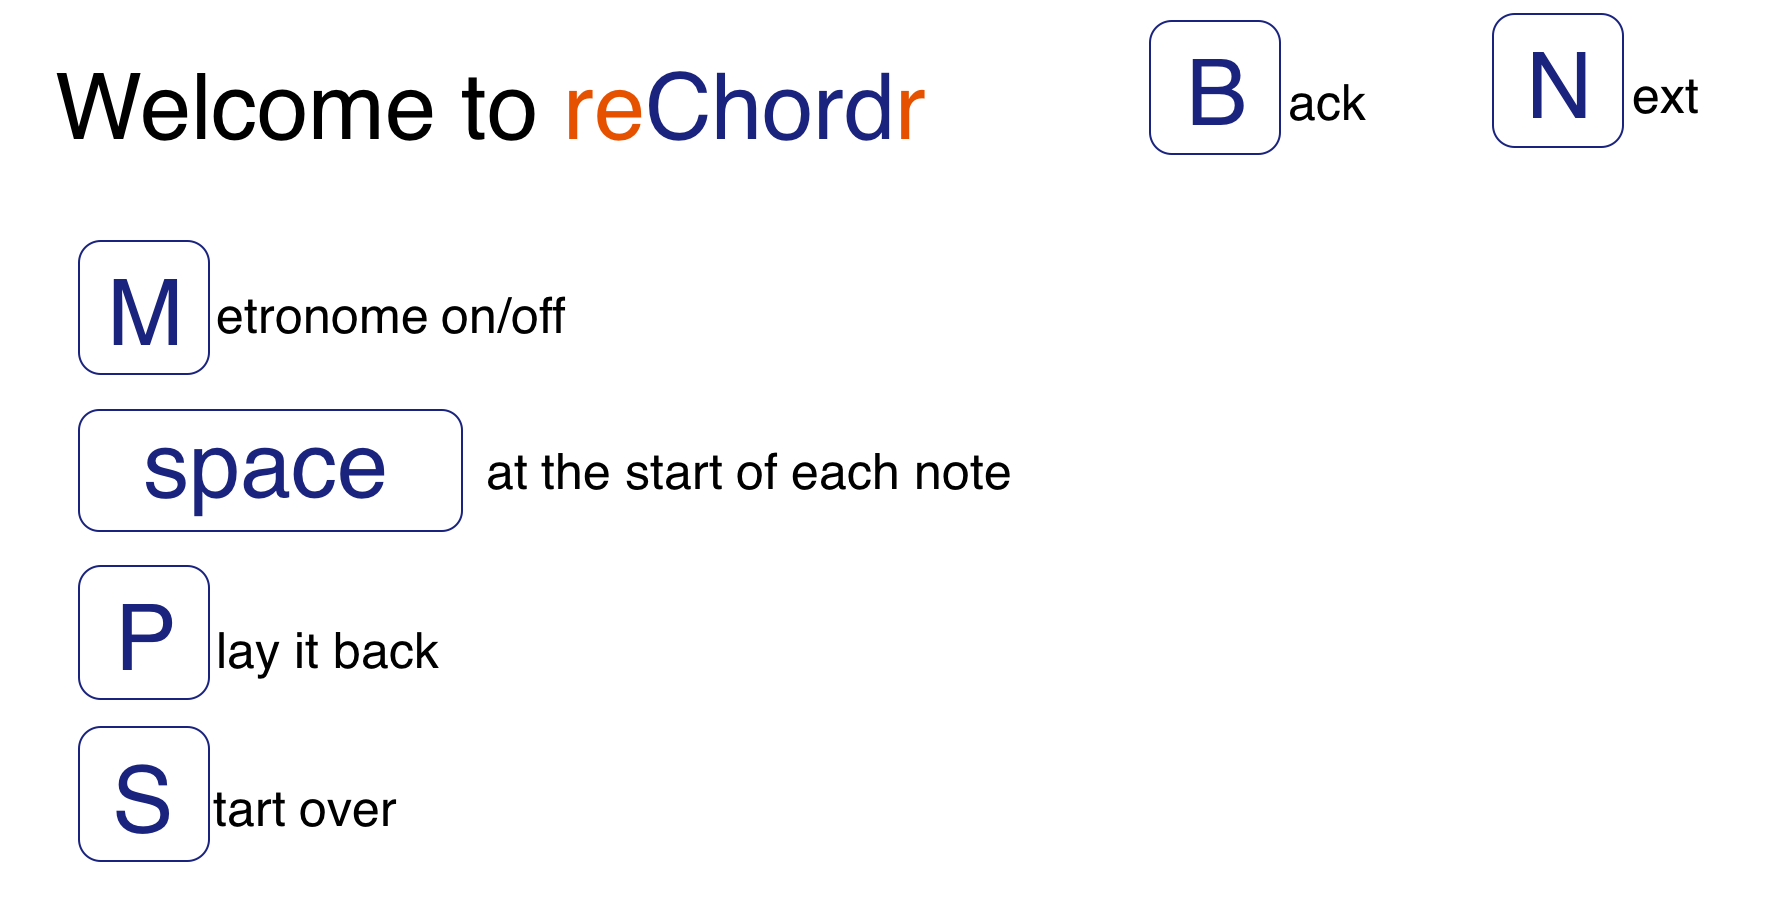
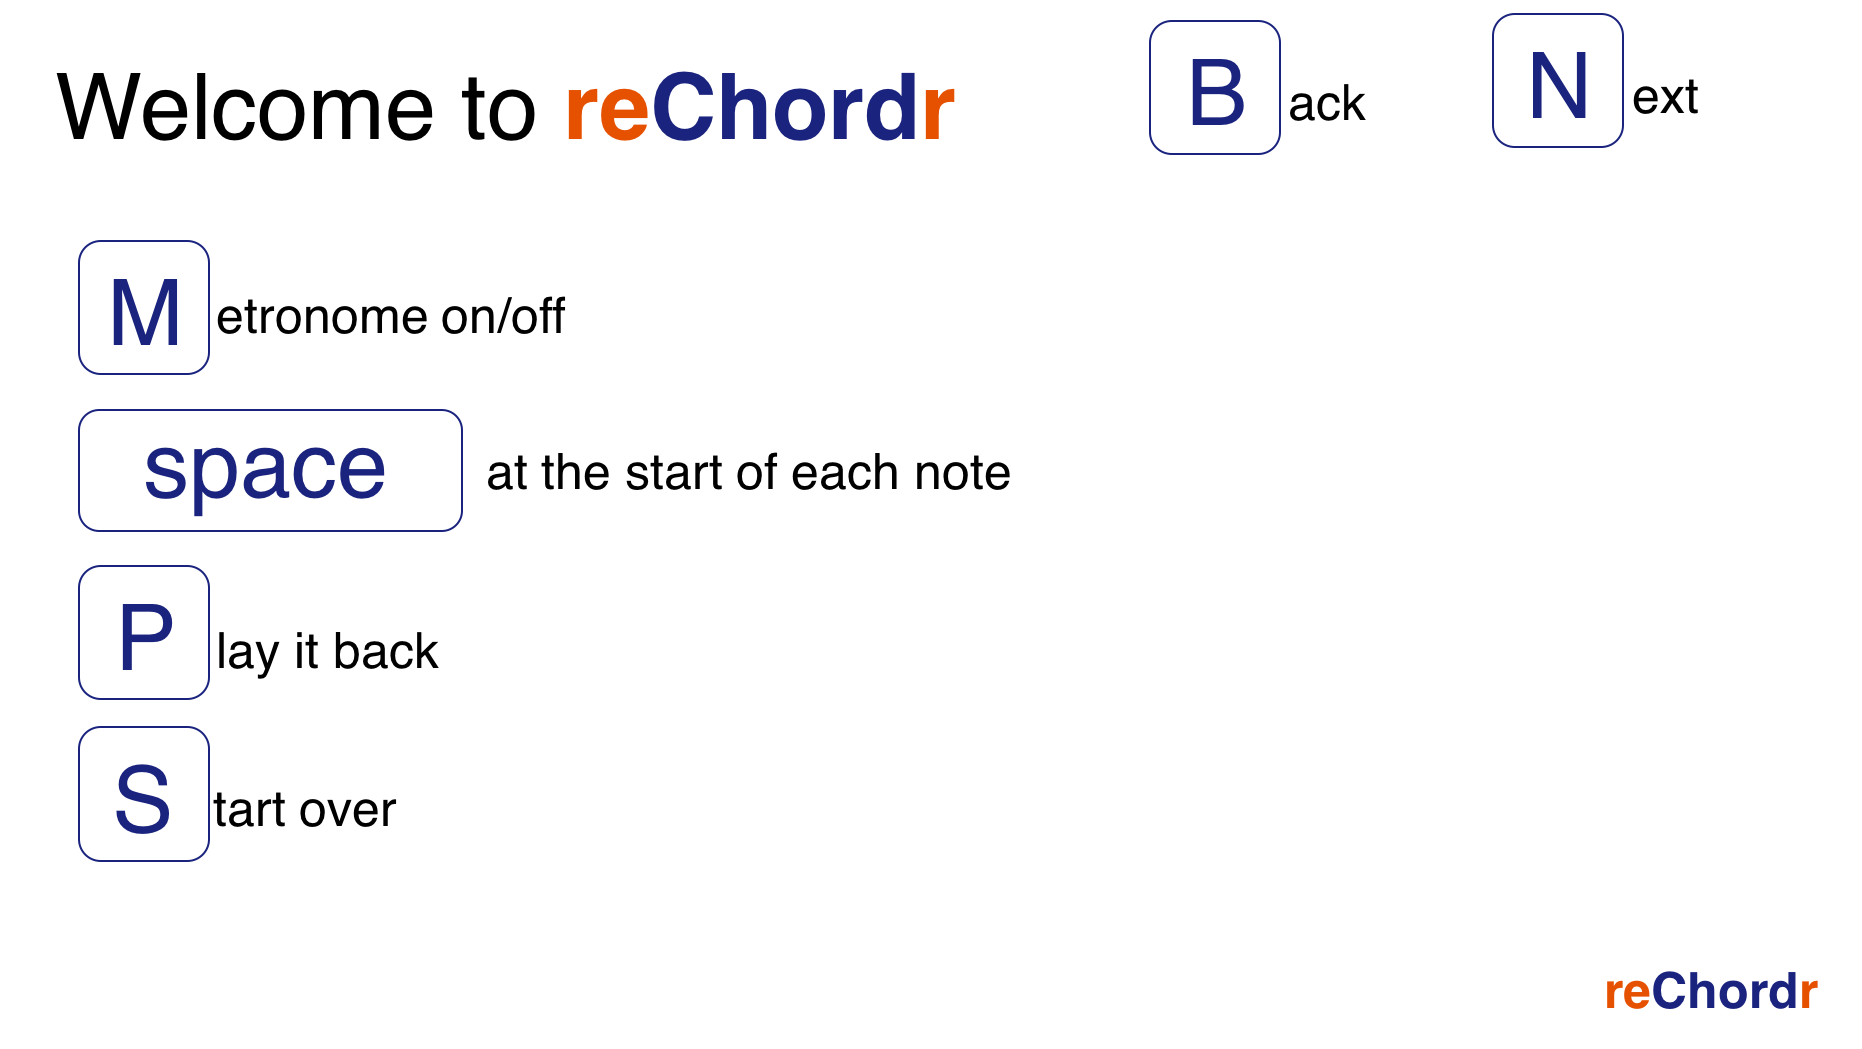
Hopefully fixed a bug and updated background graphics

diff --git a/pitch_detect/demo.py b/pitch_detect/demo.py
@@ -86,7 +86,7 @@ class MainWidget(BaseWidget):
 		self.metro = Metronome(self.sched, self.synth, METRO_CHANNEL)
 		self.metro.start()
 		self.canvas.clear()
-		self.canvas.add(Rectangle(pos=(0,Window.height - 672), size=(Window.width, 672), source='./visual/set_tempo_mode.png'))
+		self.canvas.add(Rectangle(pos=(40,0), size=(Window.width - 40, Window.height - 30), source='./visual/set_tempo_mode.png'))
 		self.label = Label(text = str(self.tempo), valign='top', font_size='100sp',
               pos=(Window.width * 0.7, Window.height * -0.2),
               text_size=(Window.width, Window.height))
@@ -98,7 +98,7 @@ class MainWidget(BaseWidget):
 	def _init_solo_transcribe_mode(self):
 		self.metro.stop()
 		self.canvas.clear()
-		self.canvas.add(Rectangle(pos=(0,Window.height - 1087), size=(Window.width, 987), source='./visual/solo_transcribe_mode.png'))
+		self.canvas.add(Rectangle(pos=(40,0), size=(Window.width - 40, Window.height - 30), source='./visual/solo_transcribe_mode.png'))
 
 		# Pitch detector
 		self.pitch_detect_audio = Audio(NUM_CHANNELS, input_func=self.receive_audio)
@@ -150,7 +150,7 @@ class MainWidget(BaseWidget):
 	####################
 	def _init_solo_edit_mode(self):
 		self.canvas.clear()
-		self.canvas.add(Rectangle(pos=(40,Window.height - 260), size=(Window.width - 40, 210), source='./visual/solo_edit_mode.png'))
+		self.canvas.add(Rectangle(pos=(40,0), size=(Window.width - 40, Window.height - 30), source='./visual/solo_edit_mode.png'))
 		self.metro.stop()
 		self.seq.stop()
 		if len(self.song) >= 0:
@@ -177,7 +177,7 @@ class MainWidget(BaseWidget):
 
 			# gives empty voicings for SATB parts
 			single_note_seq = [[MEASURE_LENGTH, 0], [MEASURE_LENGTH, 0], [MEASURE_LENGTH, 0], [MEASURE_LENGTH, 0]]
-			#self.song = TEST_SONG1# TODO: remove this
+			self.song = TEST_SONG1# TODO: remove this
 			self.song = trim_notes_for_playback(self.song)
 			# transpose self.song
 			self.song = transpose_song(self.song)
@@ -213,7 +213,7 @@ class MainWidget(BaseWidget):
 
 	def _init_chord_generation_mode(self, idx=0):
 		self.canvas.clear()
-		self.canvas.add(Rectangle(pos=(40,Window.height - 260), size=(Window.width - 40, 210), source='./visual/chord_generation_mode.png'))
+		self.canvas.add(Rectangle(pos=(40,0), size=(Window.width - 40, Window.height - 30), source='./visual/chord_generation_mode.png'))
 
 		self.note_sequencers[4].clear_empty_notes()
 		self.song = self.note_sequencers[4].notes
@@ -298,7 +298,7 @@ class MainWidget(BaseWidget):
 	def _init_rhythm_edit_mode(self):
 		# print "In rhythm edit mode!!!!!!!!"
 		self.canvas.clear()
-		self.canvas.add(Rectangle(pos=(40,Window.height - 260), size=(Window.width - 40, 210), source='./visual/rhythm_edit_mode.png'))
+		self.canvas.add(Rectangle(pos=(40,0), size=(Window.width - 40, Window.height - 30), source='./visual/rhythm_edit_mode.png'))
 		for ns in self.note_sequencers:
 			ns.stop()
 
@@ -346,6 +346,8 @@ class MainWidget(BaseWidget):
 
 	# returns which StaffNote was clicked
 	def find_part(self, pos):
+		print Window.width, Window.height
+		print self.staff_note_parts[0][-1]._get_corners(), pos
 		for part in self.staff_note_parts:
 			for staff_note in part:
 				if staff_note.intersects(pos):
@@ -660,7 +662,7 @@ class MainWidget(BaseWidget):
 					# enter changing mode
 					self.on_key_down([None, 'c'], None)
 				self.staff_note_parts[self.change_idx][self.change_note].set_highlight(False)
-				(self.change_idx, self.change_note, self.changing) = c
+				self.change_idx, self.change_note = c[0], c[1]
 				self.staff_note_parts[self.change_idx][self.change_note].set_highlight(True)
 				self.get_current_bar()
 		else:

diff --git a/pitch_detect/visual/staffvis.py b/pitch_detect/visual/staffvis.py
@@ -274,12 +274,13 @@ class StaffNote(InstructionGroup):
         return (x1 <= x and x <= x2 and y1 <= y and y <= y2)
 
     def horizontal_intersects(self, pos):
-        (x, y) = pos
-        (x1, x2, y1, y2) = self._get_corners()
-        if x1 <= x and x <= 0.5*(x2+x1):
-            return "left"
-        if 0.5*(x2+x1) <= x and x <= x2:
-            return "right"
+        if self.intersects(pos):
+            (x, y) = pos
+            (x1, x2, y1, y2) = self._get_corners()
+            if x <= 0.5*(x2+x1):
+                return "left"
+            else:
+                return "right"
 
     #maybe this should go in the Stave class idk
     '''

diff --git a/pitch_detect/common/constants.py b/pitch_detect/common/constants.py
@@ -1,7 +1,7 @@
 from common.clock import kTicksPerQuarter
 from kivy.core.window import Window
 Window.fullscreen = True
-Window.size = (1280*3/2, 768*3/2)
+Window.size = (2000, 1200)
 
 TEST_SONG1 = [[960, 60], [960, 72], [480, 71], [240, 67], [240, 69], [480, 71], [480, 72],
 						 [960, 60], [960, 69], [960*2, 67], [960, 57], [960, 65], [480, 64], [240, 60],
